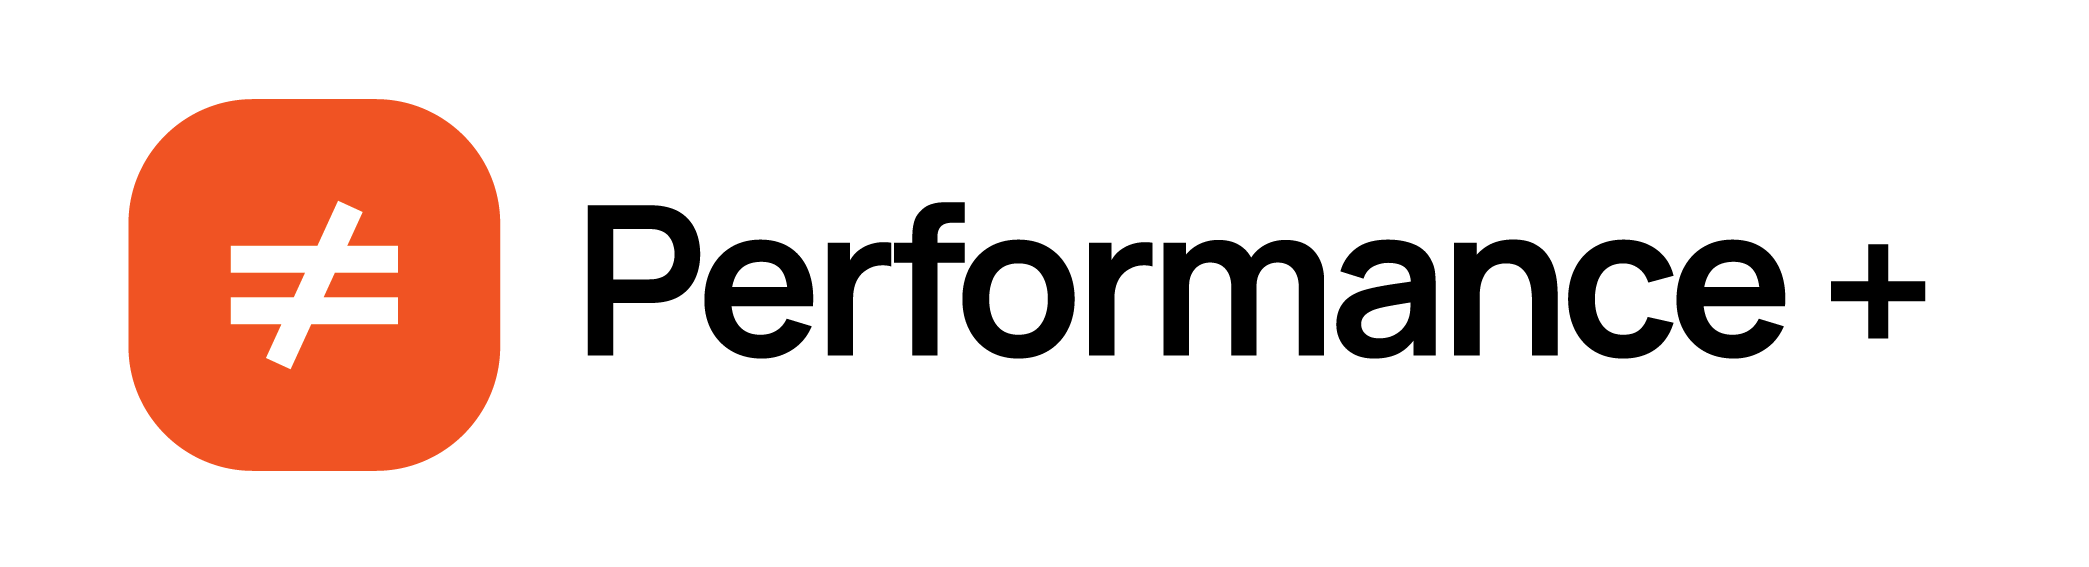
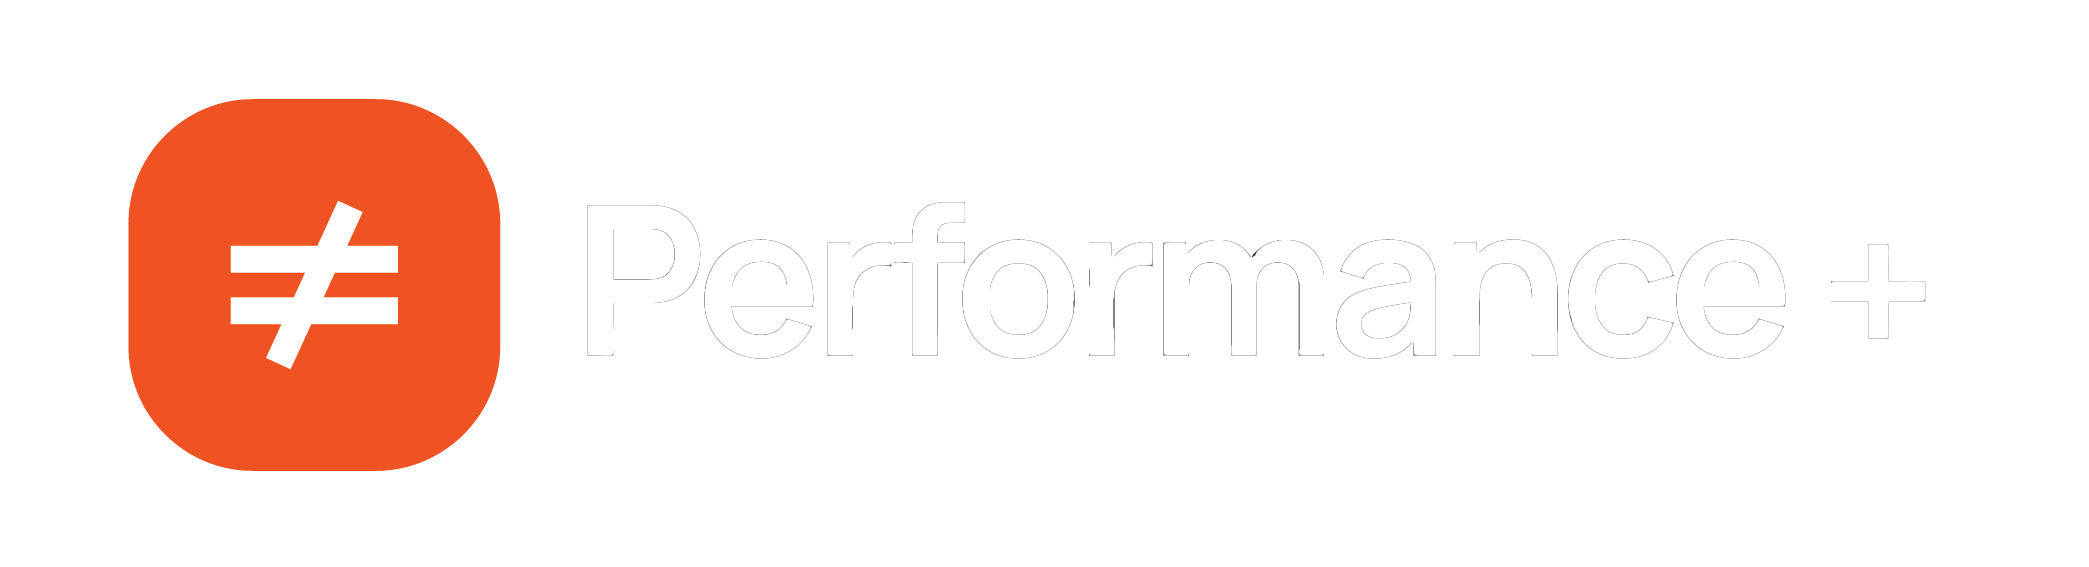
fix(ui): unify header branding and topbar alignment
Use the new Performance logo as a single lockup in the app header, right-align topbar controls consistently, and harden Meta campaign writes to avoid Firestore timeout drops during sync.

Made-with: Cursor

Changed region(s): [[0.28, 0.3598, 0.9335, 0.6296]]

diff --git a/src/components/layout/AppShell.tsx b/src/components/layout/AppShell.tsx
@@ -608,35 +608,37 @@ export function AppShell({ activeSection, onSectionChange, children }: AppShellP
           </div>
         </PrimerHeader.Item>
 
-        {currentBrand && (
-          <PrimerHeader.Item className="hidden lg:block">
-            <BrandMenu
-              currentBrand={currentBrand}
-              brands={brands}
-              isOpen={brandMenuOpen}
-              onToggle={() => setBrandMenuOpen((o) => !o)}
-              onClose={() => setBrandMenuOpen(false)}
-              onSelect={setCurrentBrand}
-            />
-          </PrimerHeader.Item>
-        )}
-
-        <PrimerHeader.Item style={{ position: 'relative', overflow: 'visible' }}>
-          <NotificationBell onNavigate={(s) => onSectionChange(s)} />
-        </PrimerHeader.Item>
-
-        <PrimerHeader.Item style={{ position: 'relative', overflow: 'visible' }}>
-          <AccountMenu
-            user={user}
-            onSignOut={signOut}
-            isOpen={userMenuOpen}
-            onToggle={() => setUserMenuOpen((o) => !o)}
-            onClose={() => setUserMenuOpen(false)}
-            hasPasswordProvider={hasPasswordProvider}
-            hasGoogleProvider={hasGoogleProvider}
-            onLinkPassword={linkPassword}
-            onLinkGoogle={linkGoogle}
-          />
+        <PrimerHeader.Item style={{ marginLeft: 'auto', minWidth: 0 }}>
+          <div className="flex items-center gap-2 lg:gap-3">
+            {currentBrand && (
+              <div className="hidden lg:block">
+                <BrandMenu
+                  currentBrand={currentBrand}
+                  brands={brands}
+                  isOpen={brandMenuOpen}
+                  onToggle={() => setBrandMenuOpen((o) => !o)}
+                  onClose={() => setBrandMenuOpen(false)}
+                  onSelect={setCurrentBrand}
+                />
+              </div>
+            )}
+            <div style={{ position: 'relative', overflow: 'visible' }}>
+              <NotificationBell onNavigate={(s) => onSectionChange(s)} />
+            </div>
+            <div style={{ position: 'relative', overflow: 'visible' }}>
+              <AccountMenu
+                user={user}
+                onSignOut={signOut}
+                isOpen={userMenuOpen}
+                onToggle={() => setUserMenuOpen((o) => !o)}
+                onClose={() => setUserMenuOpen(false)}
+                hasPasswordProvider={hasPasswordProvider}
+                hasGoogleProvider={hasGoogleProvider}
+                onLinkPassword={linkPassword}
+                onLinkGoogle={linkGoogle}
+              />
+            </div>
+          </div>
         </PrimerHeader.Item>
       </PrimerHeader>
 

diff --git a/functions/src/metaConnector.ts b/functions/src/metaConnector.ts
@@ -79,6 +79,36 @@ function addDays(ymd: string, days: number): string {
   return toYmd(d);
 }
 
+function isRetriableFirestoreWriteError(err: unknown): boolean {
+  const msg = err instanceof Error ? err.message : String(err);
+  return /DEADLINE_EXCEEDED|Transaction too big|Request payload size exceeds|4 DEADLINE_EXCEEDED/i.test(msg);
+}
+
+async function commitCampaignSliceAdaptive(campaigns: any[]): Promise<void> {
+  if (campaigns.length === 0) return;
+  const batch = getDb().batch();
+  for (const campaign of campaigns) {
+    const ref = getDb().collection('campaigns').doc(campaign.id);
+    batch.set(ref, campaign, { merge: true });
+  }
+  try {
+    await batch.commit();
+  } catch (err) {
+    if (campaigns.length > 1 && isRetriableFirestoreWriteError(err)) {
+      const mid = Math.floor(campaigns.length / 2);
+      const left = campaigns.slice(0, mid);
+      const right = campaigns.slice(mid);
+      logger.warn(
+        `[Meta] Batch write retry via split (${campaigns.length} -> ${left.length}+${right.length})`
+      );
+      await commitCampaignSliceAdaptive(left);
+      await commitCampaignSliceAdaptive(right);
+      return;
+    }
+    throw err;
+  }
+}
+
 function getCredentials() {
   return {
     appId: process.env.META_APP_ID || '',
@@ -623,15 +653,10 @@ export async function fetchMetaCampaigns(brandId: string): Promise<{
 
       // Firestore: max 500 ops/batch and ~10MB payload.
       // Meta campaigns carry ~36 months of daily rows per campaign — keep chunks small.
-      const CHUNK = 50;
+      const CHUNK = 12;
       for (let i = 0; i < allCampaigns.length; i += CHUNK) {
         const chunk = allCampaigns.slice(i, i + CHUNK);
-        const batch = getDb().batch();
-        for (const campaign of chunk) {
-          const ref = getDb().collection('campaigns').doc(campaign.id);
-          batch.set(ref, campaign, { merge: true });
-        }
-        await batch.commit();
+        await commitCampaignSliceAdaptive(chunk);
       }
 
       if (allCampaigns.length > 0) {

diff --git a/src/components/data/DataImport.tsx b/src/components/data/DataImport.tsx
@@ -649,6 +649,7 @@ export function DataImport({ initialType }: DataImportProps = {}) {
                 }
               }}
               className="hidden"
+              style={{ display: 'none' }}
               id="file-input"
             />
             <label
@@ -895,13 +896,13 @@ export function DataImport({ initialType }: DataImportProps = {}) {
 
 
           {/* Import Button */}
-          <div className="flex items-center gap-3 pt-4 border-t border-[#E5E5E5]">
+          <div className="flex flex-col sm:flex-row sm:items-center gap-3 pt-4 border-t border-[#E5E5E5]">
             <Button
               variant="primary"
               loading={isImporting}
               onClick={handleImport}
               disabled={selectedFiles.length === 0 || isImporting}
-              className="flex-1"
+              className="w-full sm:flex-1"
             >
               {isImporting ? (
                 <>
@@ -916,6 +917,7 @@ export function DataImport({ initialType }: DataImportProps = {}) {
             </Button>
             <Button
               variant="secondary"
+              className="w-full sm:w-auto sm:flex-none"
               onClick={() => {
                 setShowHistory(!showHistory);
                 if (!showHistory) {

diff --git a/src/components/common/PerformancePlusLogo.tsx b/src/components/common/PerformancePlusLogo.tsx
@@ -2,7 +2,7 @@ import buildInfo from '../../generated/buildInfo.json';
 
 /**
  * `onLight`: πλήρες lockup `/Performance.png` (login, marketing, legal).
- * `onDark`: εικονίδιο από το ίδιο PNG (clip αριστερά) + λευκό «Performance» + πορτοκαλί «+» — για σκούρο app chrome.
+ * `onDark`: ίδιο επίσημο lockup `/Performance.png` για συνέπεια brand στο app chrome.
  */
 export interface PerformancePlusLogoProps {
   className?: string;
@@ -17,12 +17,11 @@ export function PerformancePlusLogo({
 }: PerformancePlusLogoProps) {
   const v = encodeURIComponent(buildInfo.version);
   const lockupSrc = `/Performance.png?v=${v}`;
-  const darkLockupSrc = `/notthesame-logo.png?v=${v}`;
 
   if (variant === 'onDark') {
     return (
       <img
-        src={darkLockupSrc}
+        src={lockupSrc}
         alt="Performance+ by notthesame.ai"
         className={`block w-auto max-w-[min(100%,340px)] object-contain object-left ${className}`}
         style={{ height }}
